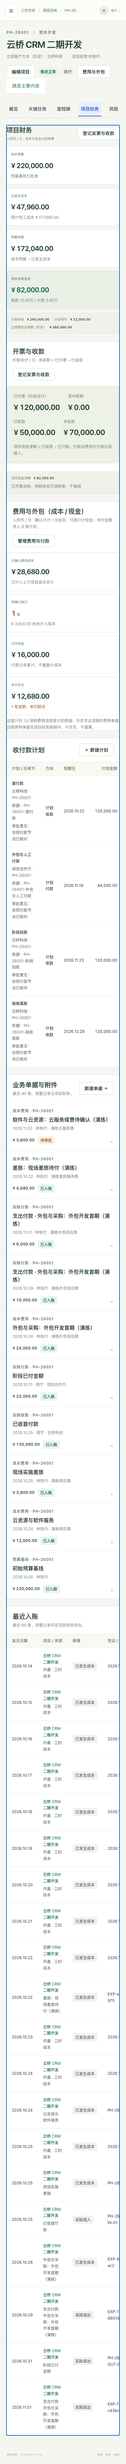
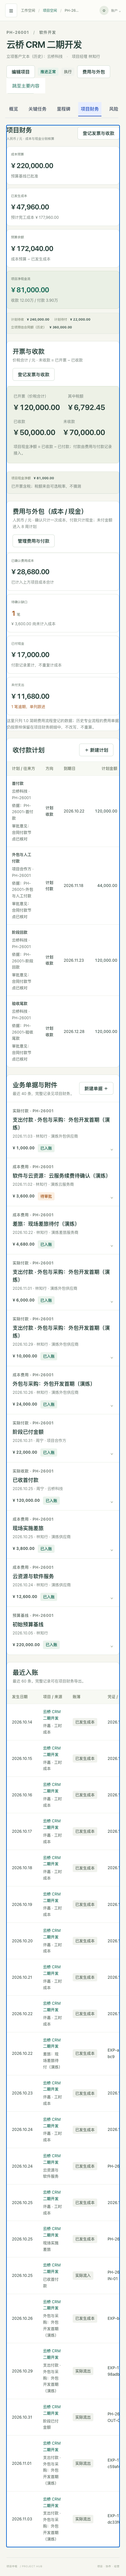
fix(Q-34): 按 Q-33 口径更新证据与文档
- 15 条 Q-34 测试：跨模块 business_dashboard 一致性 + seed_demo PH-26001 毛利 ¥84,527.55/1.0 成本 ¥28,680。
- Before/After 基于 Q-33 seed 同数据重采集（Before 无 Q-34 面板，After 含历史成本缺口与最新合同额卡片）。
- ACCEPTANCE/STATUS 同步 1.0 成本口径与 Q-33 一致性证据，去除重复验收行。

diff --git a/tests/test_q34_project_finance.py b/tests/test_q34_project_finance.py
@@ -1,10 +1,14 @@
 """Q-34 项目页收益/现金：只读口径、合同额追加历史、缺口与权限。"""
+import io
 import uuid
 from datetime import date, timedelta
 from decimal import Decimal
+from pathlib import Path
+from tempfile import TemporaryDirectory
 
 from django.contrib.auth import get_user_model
 from django.core.exceptions import PermissionDenied, ValidationError
+from django.core.management import call_command
 from django.test import TestCase, override_settings
 from django.urls import reverse
 from django.utils import timezone
@@ -359,3 +363,27 @@ class Q34PermissionTests(Q34FinanceFixture):
         self.assertContains(response, "筛选项目")
         self.assertContains(response, "Q34 人工投入")
         self.assertEqual(self.client.get(reverse("timesheets") + f"?project={self.foreign_project.pk}").status_code, 404)
+
+
+@override_settings(PMO_SCOPE="micro")
+class Q34SeedConsistencyTests(TestCase):
+    """Seed demo must show the same PH-26001 margin on the project page and Q-33 dashboard."""
+
+    def test_seed_project_margin_matches_dashboard(self):
+        try:
+            from core.business_dashboard import dashboard_snapshot
+        except ImportError:  # pragma: no cover - only before the Q-33 PR is merged
+            self.skipTest("Q-33 core.business_dashboard is not merged yet")
+        with TemporaryDirectory() as tmp, override_settings(BASE_DIR=Path(tmp)):
+            call_command("seed_demo", stdout=io.StringIO())
+        owner = Membership.objects.get(role="owner")
+        project = Project.objects.get(code="PH-26001")
+        snapshot = project_finance(project)
+        dash = dashboard_snapshot(owner)
+        row = {item["project"].code: item for item in dash["rows"]}[project.code]
+        self.assertEqual(snapshot["revenue_cents"], row["revenue_cents"])
+        self.assertEqual(snapshot["cost_total_cents"], row["cost_cents"])
+        self.assertEqual(snapshot["gross_margin_cents"], row["gross_cents"])
+        self.assertEqual(snapshot["historical_cost_cents"], row["historical_cost_cents"])
+        self.assertEqual(snapshot["gross_margin_cents"], 8_452_755)
+        self.assertEqual(snapshot["cost_total_cents"], 2_868_000)

diff --git a/project/ACCEPTANCE.md b/project/ACCEPTANCE.md
@@ -38,10 +38,8 @@
 | 1 | 范围/设计/任务与队列重排（Q-31） | not_run | 本 PR 的必需 CI 与独立复核（合并后回填 run URL） |
 | 2 | 小微版入口收口（Q-32） | not_run | 待实现 |
 | 3 | 老板工作台：收益 + 现金一屏（Q-33） | pass | `python manage.py test tests.test_q33_dashboard`（17 tests OK：含税发票净额回归、净额为 0 的未开票边界、Q-36 付款不计入历史专业付款、简化成本/历史专业成本缺口、开票/收款口径切换、未收款=已开票−已收款、账户余额=期初+已收−退款、毛利排行与无定义毛利率、缺费率/未开票/无收款缺口、PM 账户余额与 /billing/ 一致、成员/finance/auditor 403、跨租户隔离、只读零写）；`seed_demo` 后 Chromium 1440/390/键盘证据：本月开票不含税 ¥205,811.32（价税合计 ¥216,000）、已收 ¥91,000、已支出 ¥7,000（仅 Q-36 付款）、未收款 ¥130,000（含税现金）、账户余额 ¥171,000（累计付款 ¥17,000 未关联账户缺口）、历史专业成本 ¥67,560/3 个项目只读未计入 1.0 毛利，历史专业收款 2 笔/付款 3 笔只读；排行与 billing/expenses 聚合逐项一致；截图 `docs/screenshots/q33-after-owner-1440.png`、`q33-after-owner-390.png`、`q33-after-owner-390-nav.png`、`q33-after-owner-receipt-1440.png`，Before 对照 `q33-before-*`（main 9daa3fc） |
-| 4 | 项目页：合同额→开票→收款→成本→毛利（Q-34） | pass | `python manage.py test tests.test_q34_project_finance`（14 tests：与 Q-33 `business_dashboard` 同项目收入/1.0 成本/毛利/未收款/现金净额/历史成本缺口逐项一致、合同额追加保留历史与立项预估、缺费率/待确认费用/历史专业成本/未开票缺口有数量且只读 GET 零写、成员仅见本人项目、跨租户/非项目成员 404、非法金额/短说明/非法日期/同 token 改值/同金额/零合同额/缺 token/跨租户拒绝、项目卡片最新合同额、工时与开票下钻过滤）；`seed_demo` 后 Chromium 1440/390 浏览器证据：同一数据 Before（Q-33 合并后的 main）无 Q-34 面板 → After 一屏显示合同额/已开票/待开票/已收款/未收款/1.0 人工/1.0 直接费用/毛利/项目现金净额与历史专业成本缺口，追加合同额变更保留历史并下钻工时/费用/开票与收款明细，390 无横向溢出；截图 `docs/screenshots/q34-before-project-finance-1440.png`、`q34-before-project-finance-390.png`、`q34-after-project-finance-1440.png`、`q34-after-contract-change-1440.png`、`q34-after-project-finance-390.png` |
+| 4 | 项目页：合同额→开票→收款→成本→毛利（Q-34） | pass | `python manage.py test tests.test_q34_project_finance`（15 tests OK：与 Q-33 `business_dashboard` 同项目收入/1.0 成本/毛利/未收款/现金净额/历史成本缺口逐项一致，seed_demo 后 PH-26001 毛利 ¥84,527.55=收入 ¥113,207.55−Q-35/Q-36 成本 ¥28,680，历史专业成本 ¥19,280 单列；合同额追加保留历史与立项预估、缺费率/待确认费用/历史成本/未开票缺口有数量且只读 GET 零写、成员仅见本人项目、跨租户/非项目成员 404、非法金额/短说明/非法日期/同 token 改值/同金额/零合同额/缺 token/跨租户拒绝、项目卡片最新合同额、工时与开票下钻过滤）；`seed_demo` 后 Chromium 1440/390 浏览器证据：同一 Q-33 seed 下 Before（Q-33 合并后的 main）无 Q-34 面板 → After 一屏显示合同额/已开票不含税/待开票/已收款/未收款（价税合计现金口径）/1.0 人工/1.0 直接费用/毛利/项目现金净额与历史专业成本缺口，追加合同额变更保留历史并下钻工时/费用/开票（`?project=` 过滤）与收款明细，项目卡片显示最新合同额，390 无横向溢出；截图 `docs/screenshots/q34-before-project-finance-1440.png`、`q34-before-project-finance-390.png`、`q34-after-project-finance-1440.png`、`q34-after-contract-change-1440.png`、`q34-after-project-finance-390.png`、`q34-after-project-list-1440.png` |
 
-| 3 | 老板工作台：收益 + 现金一屏（Q-33） | not_run | 待实现 |
-| 4 | 项目页：合同额→开票→收款→成本→毛利（Q-34） | pass | `python manage.py test tests.test_q34_project_finance`（10 tests OK：合同额≠收入/毛利≠现金净额且固定口径并与 Q-37 聚合对齐、合同额追加记录保留历史与立项预估且原立项值不变、缺费率/待确认费用/未开票/未收款缺口有数量且只读 GET 零写、成员仅见本人项目、跨租户/非项目成员 404、合同额非法金额/短说明/非法日期/同 token 改值/跨租户拒绝、工时下钻过滤）；`seed_demo` 后 Chromium 1440/390 浏览器证据：同一数据 Before（main 9daa3fc）无 Q-34 面板 → After 一屏显示合同额/已开票/待开票/已收款/未收款/人工/直接费用/毛利/项目现金净额，追加合同额变更（360,000→400,000 保留历史）并下钻工时/费用/开票与收款明细，390 无横向溢出；截图 `docs/screenshots/q34-before-project-finance-1440.png`、`q34-before-project-finance-390.png`、`q34-after-project-finance-1440.png`、`q34-after-contract-change-1440.png`、`q34-after-project-finance-390.png` |
 | 5 | 工时与自动人工成本（Q-35） | pass | `python manage.py test tests.test_weekly_time`（18 tests OK：费率快照/更正/幂等/缺费率/权限/锁期/1440 分钟反例，含真实渲染 token 重复提交、锁期费率回填拒绝、极端 ?week、旧审批入口拒绝）；`python manage.py verify_integrity --json` exit 0（演练库 47 条账目）；`manage.py seed_demo` 后 Chromium 1440/390 浏览器证据：周填报→更正→重复提交幂等、失败保留已填数据、缺费率进入工作台缺口清单、补录费率后自动定价；截图 `docs/screenshots/q35-weekly-1440.png`、`q35-weekly-390.png`、`q35-after-dashboard-gap-1440.png`、`q35-after-dashboard-gap-390.png`、`q35-project-cost-1440.png` |
 | 6 | 费用/外包成本确认（Q-36） | pass | `python manage.py test tests.test_q36_expenses`（37 tests OK：登记/确认/更正审计留痕、整数分 Decimal/ROUND_HALF_UP 且拒绝 float、确认→多次更正后 `verify_integrity` 仍 ok、成本=最新值且仅 1 条 active 成本分录、重复确认与重复登记/付款 token 幂等（附件参与幂等）、分次付款不重复计成本、未付进入 8 周计划且按来源去重、逾期单列、超额付款/锁期/未来日期/跨租户/成员-finance-auditor 角色拒绝、历史专业费用只读友好提示与写拒绝、附件类型校验；PostgreSQL-only FOR UPDATE 外连接回归测试在 PG 域执行）；`python manage.py verify_integrity --json` exit 0（seed 后 51 条，浏览器更正链后 56 条）；`seed_demo` 后 Chromium 1440/390 浏览器证据：登记→确认→分次付款→更正（追加冲销重述成本）→项目成本/现金/8 周缺口，截图 `docs/screenshots/q36-after-expenses-1440.png`、`q36-after-expenses-paid-390.png`、`q36-after-expenses-corrected-1440.png`、`q36-after-project-expense-1440.png`、`q36-after-project-expense-390.png`、`q36-after-dashboard-gap-1440.png`，Before 对照 `q36-before-*-1440.png`（main 5e4ae8b/Q-37 合并后、无 Q-36 入口/页面/项目面板） |
 | 7 | 极简开票与收款归集（Q-37） | not_run | 待实现 |

diff --git a/project/STATUS.md b/project/STATUS.md
@@ -27,7 +27,7 @@
 
 - **Q-33**：老板工作台：本月开票/收款/支出、资金账户余额、未收款合计与项目毛利排行（只读聚合；收入默认开票/可切收款，缺费率/未开票/无收款显示缺口，收入为 0 毛利率无定义）。
 
-- **Q-34**：项目页收益与现金（合同额→开票→收款→人工/费用→毛利→项目现金净额；固定口径说明、缺口不显示假零、工时/费用/开票/收款下钻；合同额变更追加记录并保留历史，只读聚合零写）。
+- **Q-34**：项目页收益与现金（合同额→开票→收款→1.0 人工/费用→毛利→项目现金净额；成本=Q-35 简化人工+Q-36 已确认费用，历史专业成本只读列缺口、与 Q-33 工作台同口径；固定口径说明、缺口不显示假零、工时/费用/开票/收款下钻；合同额变更追加记录并保留历史，只读聚合零写）。
 - **Q-36**：费用/外包直接登记与成本确认（费用页、确认计一次性成本、同一支出分次付款只计现金、未付进 8 周计划、缺确认缺口、项目页/工作台成本一致）。
 - **PH-412 / PH-122**：迁移为轻交付流程（队列、四活文档、门禁接受 `Queue:` 行）。
 - **PH-411**：通知链去重与调度/归档生命周期规划（只改契约）。
